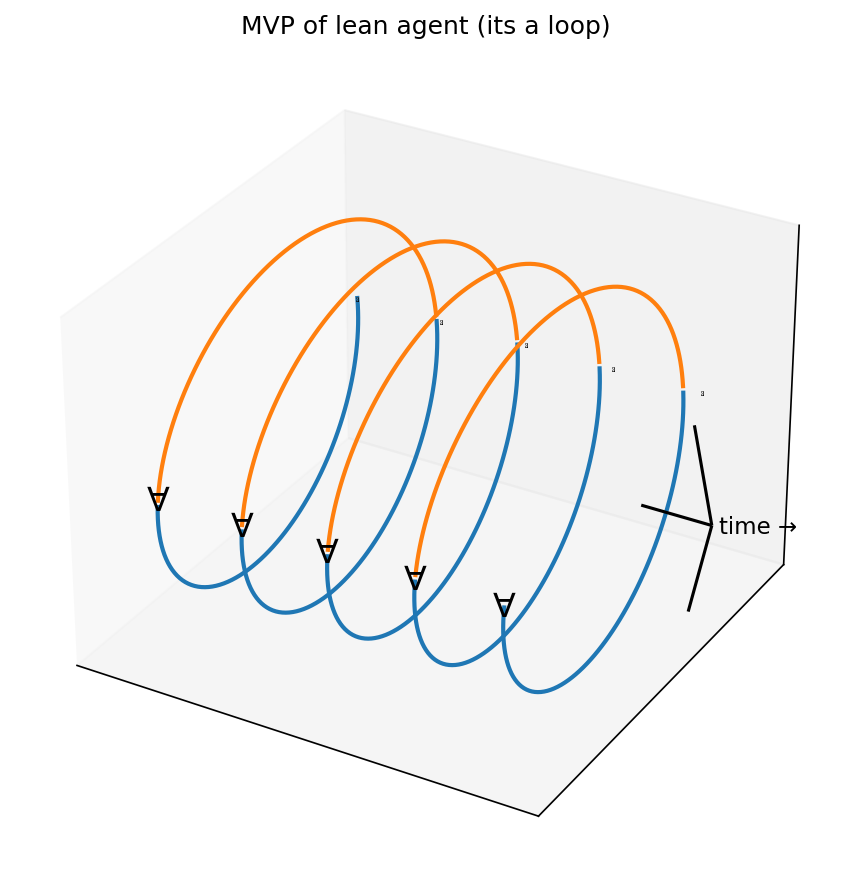
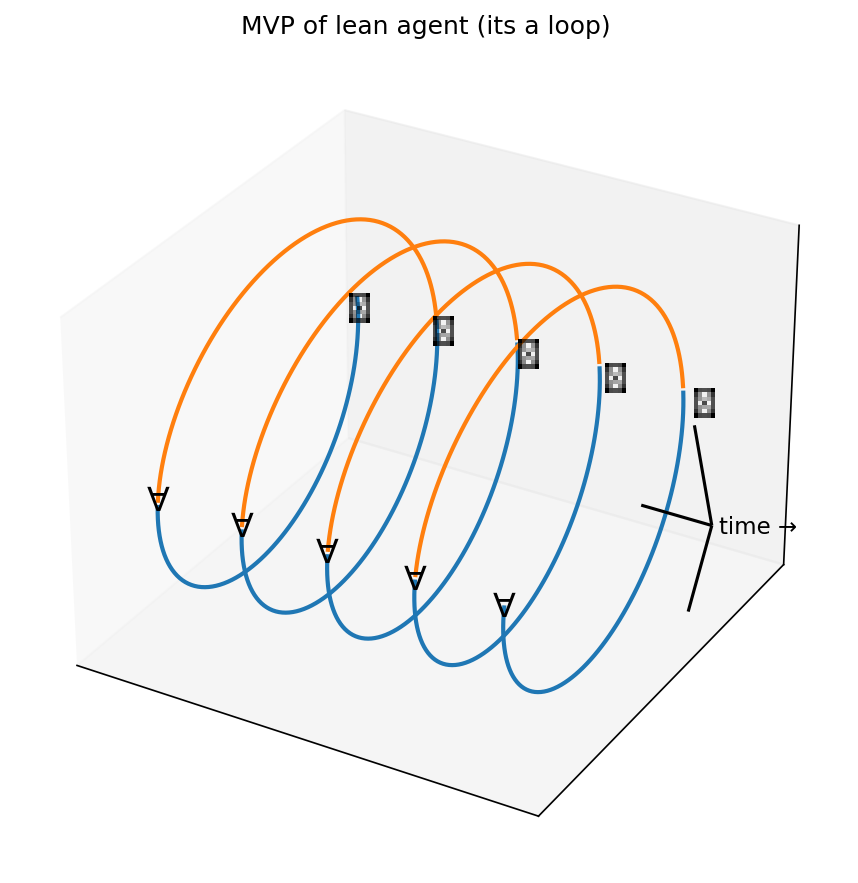
Increase robot emoji size: zoom 0.3 -> 2.0

diff --git a/scripts/lean_agent_helix.py b/scripts/lean_agent_helix.py
@@ -103,12 +103,9 @@ forall = "∀"
 for xn, yn, zn in zip(x_min, y_min, z_min):
     ax.text(xn, yn, zn, forall, fontsize=16, ha='center', va='center')
 
-# LLM toolcalls: robot emoji images projected into 2D
-oi = OffsetImage(emoji_img, zoom=2.0)  # Much bigger: 5-10x the original 0.3
+# LLM toolcalls: robot emoji as scatter markers
 for xm, ym, zm in zip(x_max, y_max, z_max):
-    x2, y2, _ = proj3d.proj_transform(xm, ym, zm, ax.get_proj())
-    ab = AnnotationBbox(oi, (x2, y2), xycoords='data', frameon=False)
-    ax.add_artist(ab)
+    ax.scatter(xm, ym, zm, marker='$🤖$', s=5000, c='black')
 
 # Arrow along time at far right
 arrow_x0 = t_max
